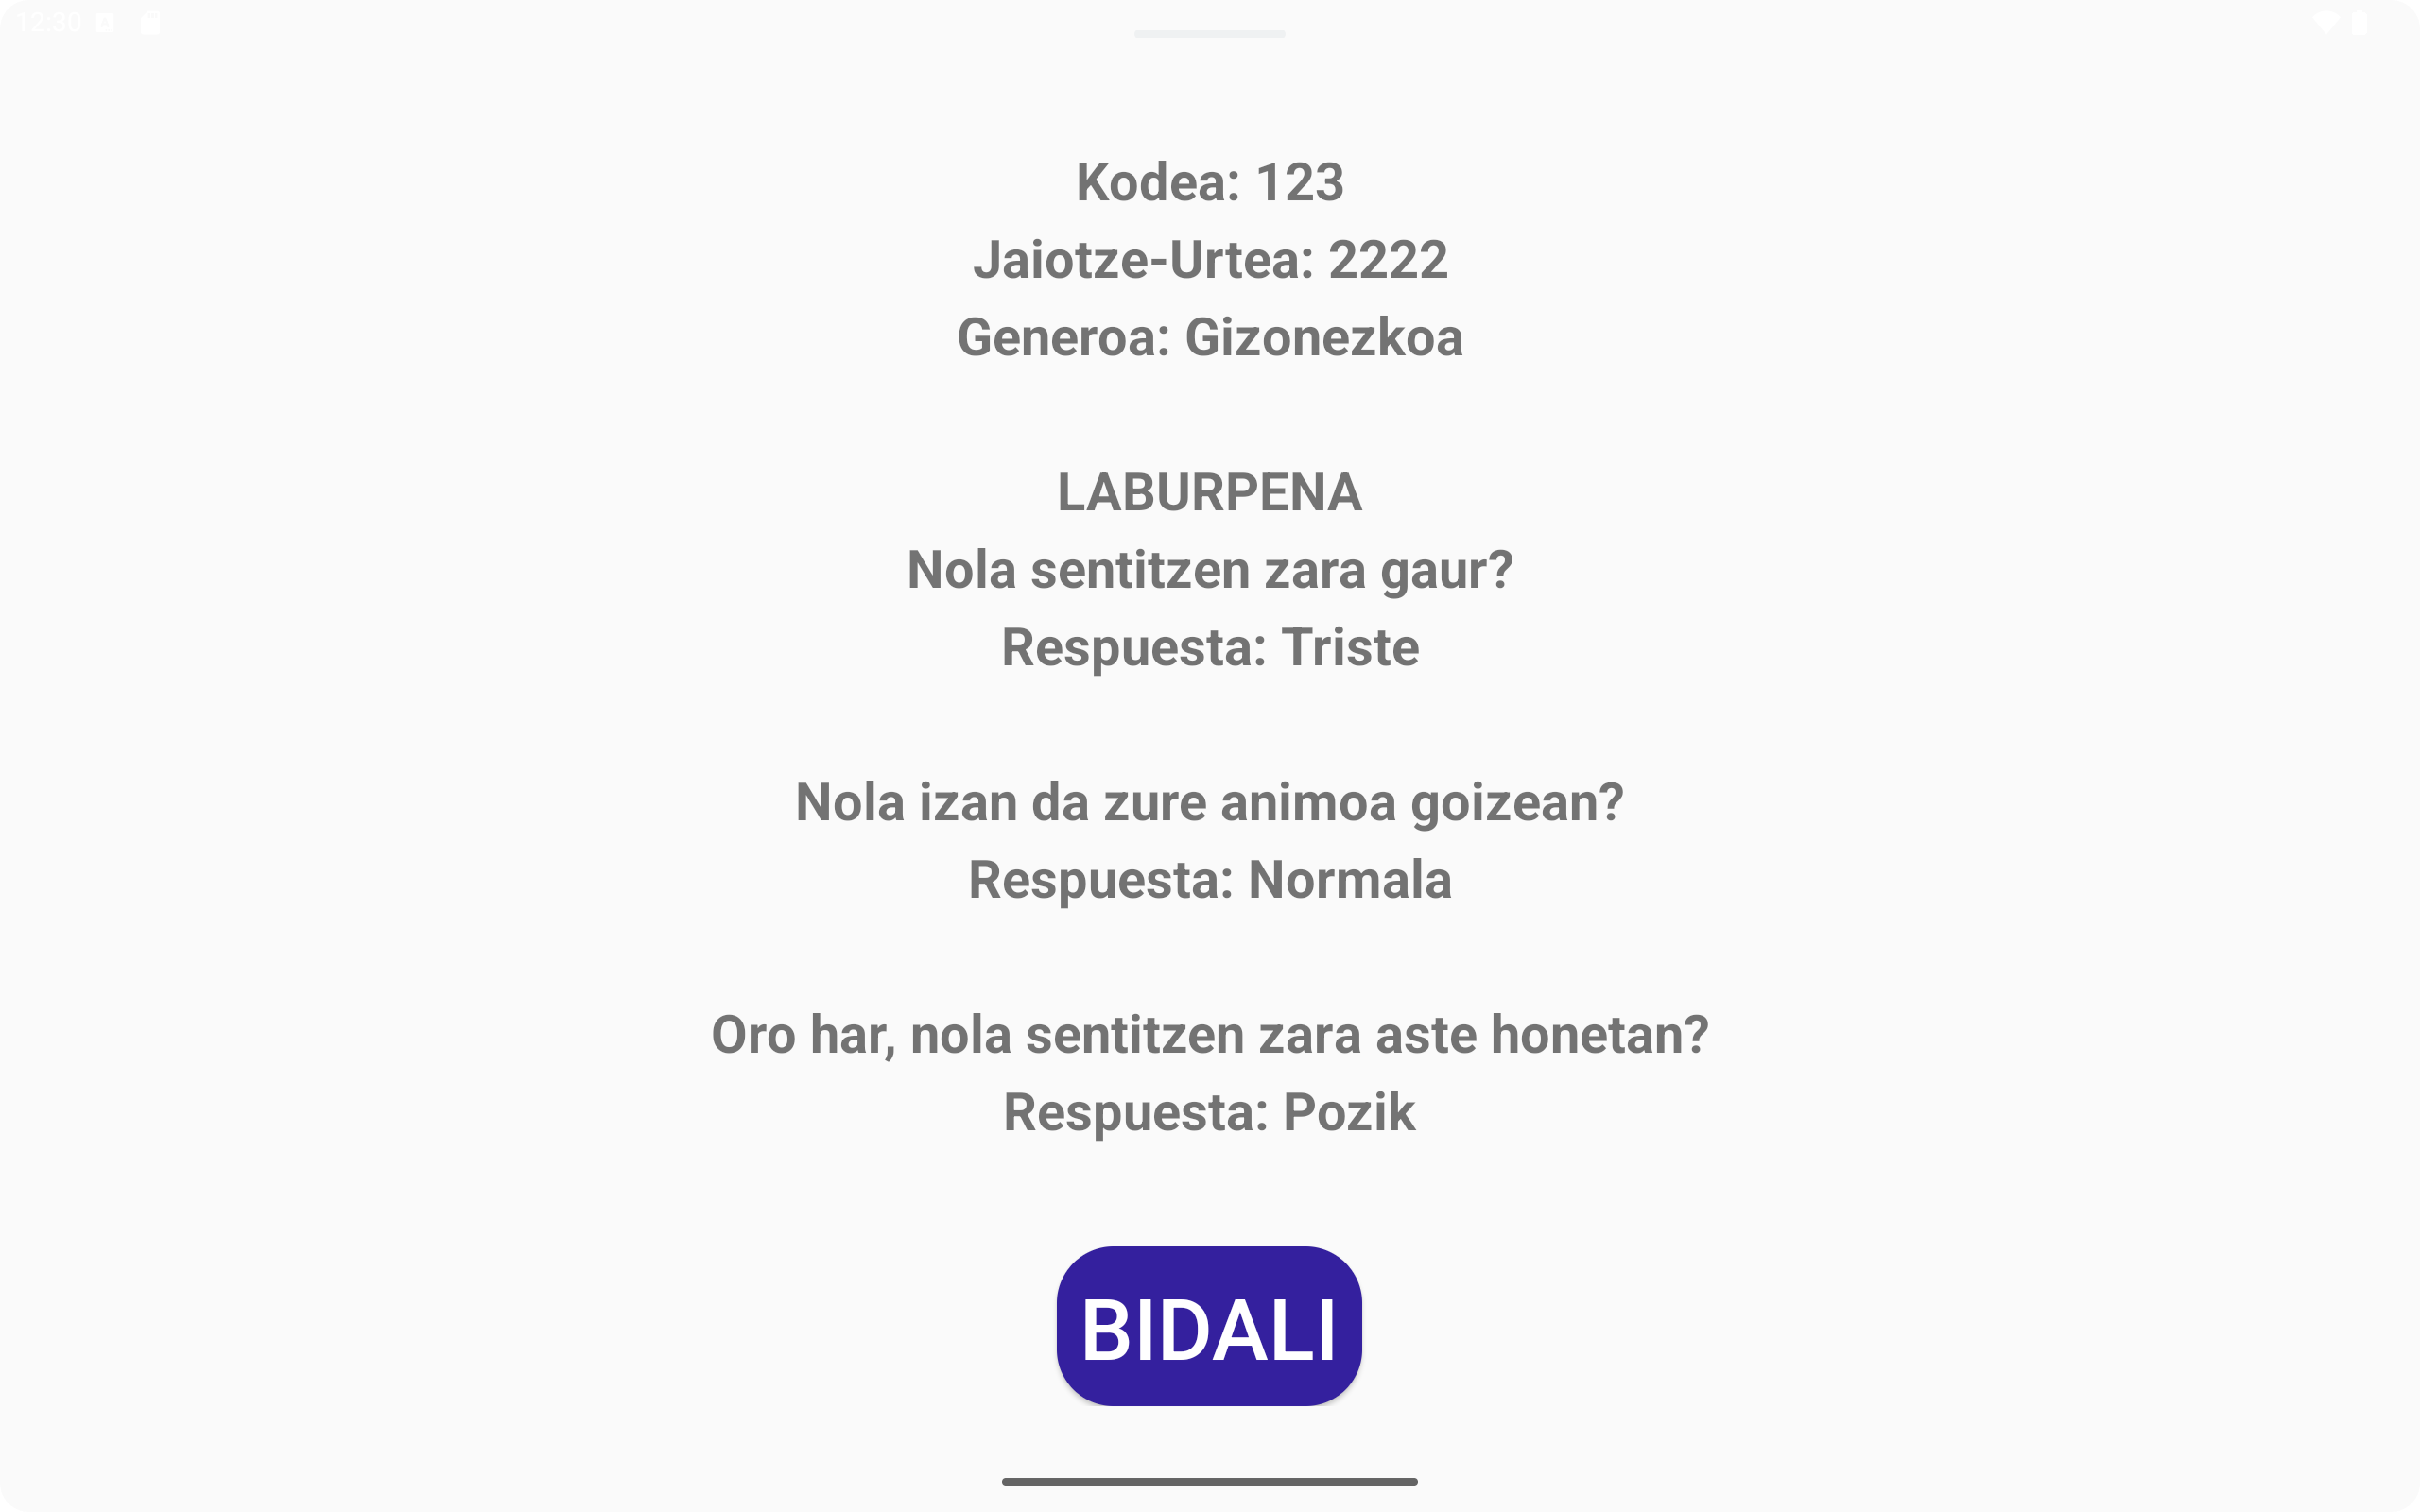
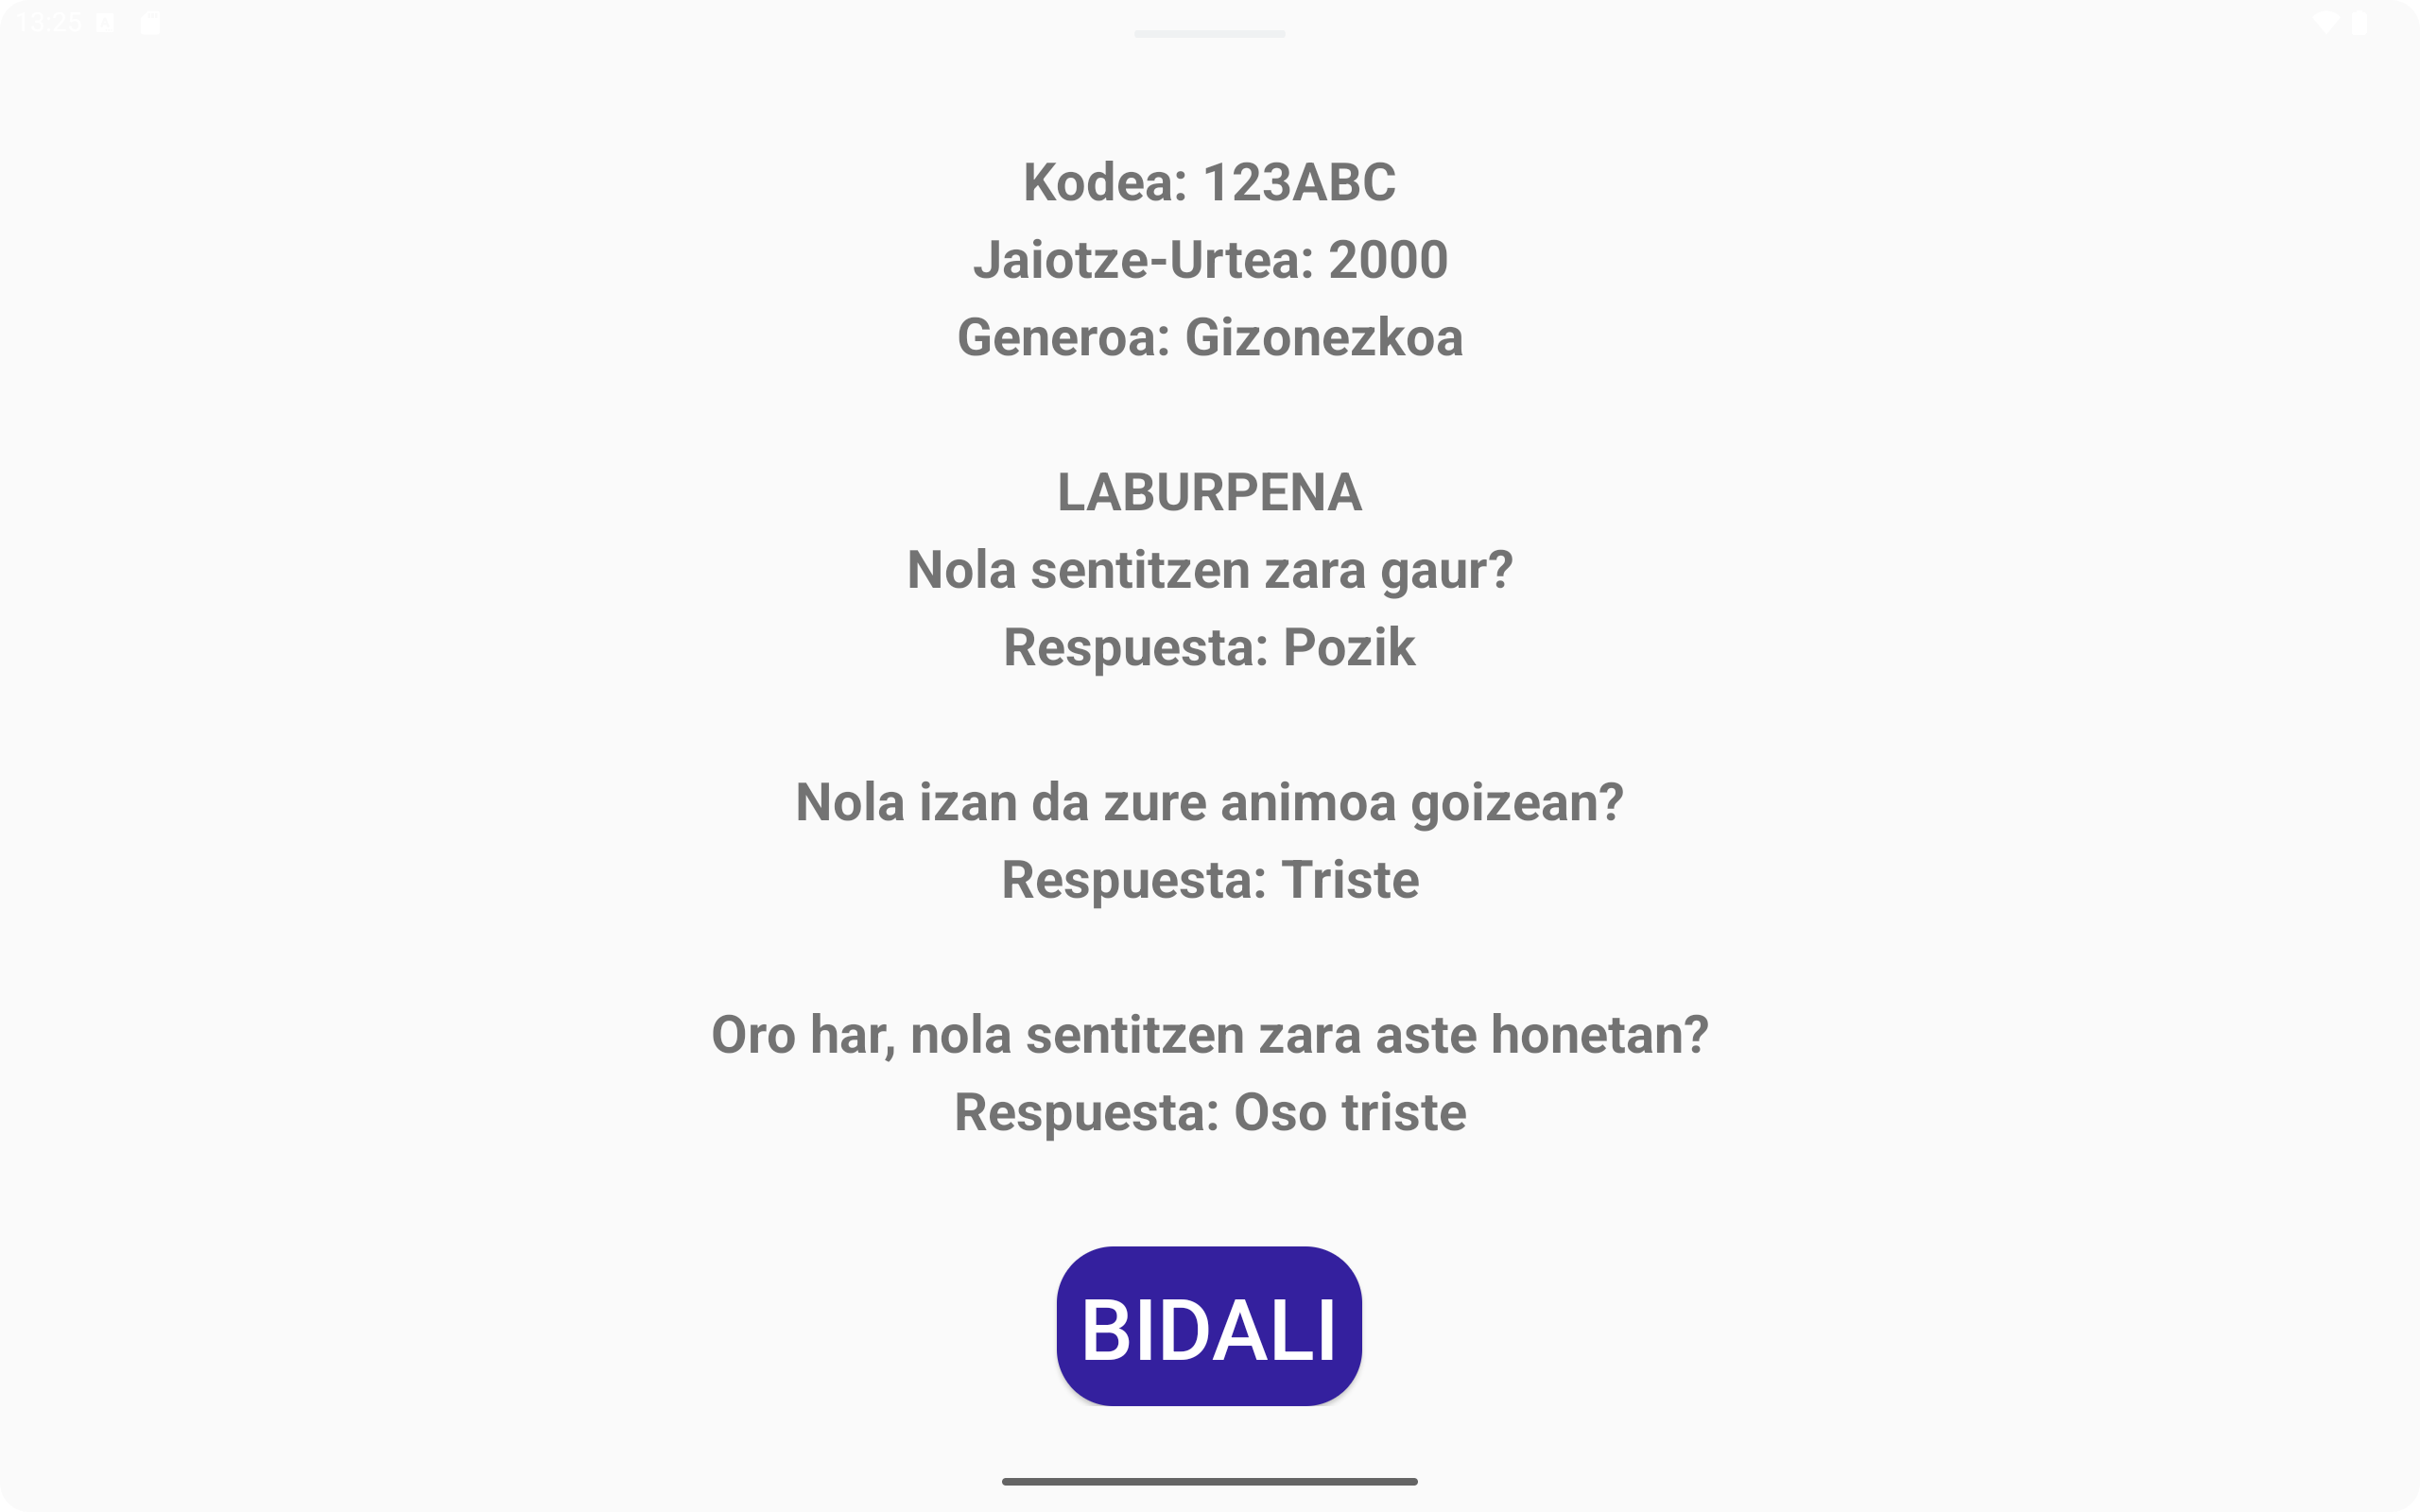
Data images added

diff --git a/wiki/AndroidStudio__ProyectoApp.md b/wiki/AndroidStudio__ProyectoApp.md
@@ -116,3 +116,54 @@ File → Manage IDE Settings → Import Settings...
 ![Laburpena_B](media/app/eu-4-resumenb.png)
 
 ---
+
+## 💾 Cómo se guardan los datos
+
+Por motivos como facilidad de lectura y edición, simplicidad en el almacenamiento o exportación y análisis de respuestas, esta app almacena los datos de usuarios y las respuestas a las encuestas en **formatos CSV**.
+
+Para guadar los archivos usamos:
+
+```Kotlin
+val file = File(requireContext().getExternalFilesDir(null), "usuarios.csv")
+```
+
+Entonces, los archivos se almacenan en el almacenamiento privado externo de la app, en la siguiente ruta:
+
+```
+/storage/emulated/0/Android/data/com.example.encuestassaaki/files/
+```
+
+Dentro de esa carpeta se encontrarán los siguientes archivos:
+
+```
+usuaios.csv
+encuesta_a.csv
+encuesta_b.csv
+us.bak (backup de usuarios)
+ea.bak (backup de encuestas_a)
+eb.bak (backup de encuestas_b)
+```
+
+Ya que nuestro dispositivo ustiliza Android 6.0, podemos acceder a estos archivos desde el propio explorador de archivos de la tablet, lo cual simplifica mucho el acceso a los datos y no necesitamos añadir funcionalidades para exportarlos.
+
+---
+
+## 💾 Cómo se ven los datos almacenados
+
+Los datos se almacenan de la siguiente forma en los archivos CSV:
+
+### Usuarios
+![Usuarios](media/app/datos-usuarios.png)
+
+### Encuesta A
+![Encuesta_A](media/app/datos-encuesta_a.png)
+
+### Encuesta B
+![Encuesta_B](media/app/datos-encuesta_b.png)
+
+---
+
+### 🚨 No almacenamos emoticonos, almacenamos numeros en la escala de 1 a 5 🚨
+### 🚨 Los datos se almacenan en castellano independientemente del idioma seleccionado 🚨
+
+---